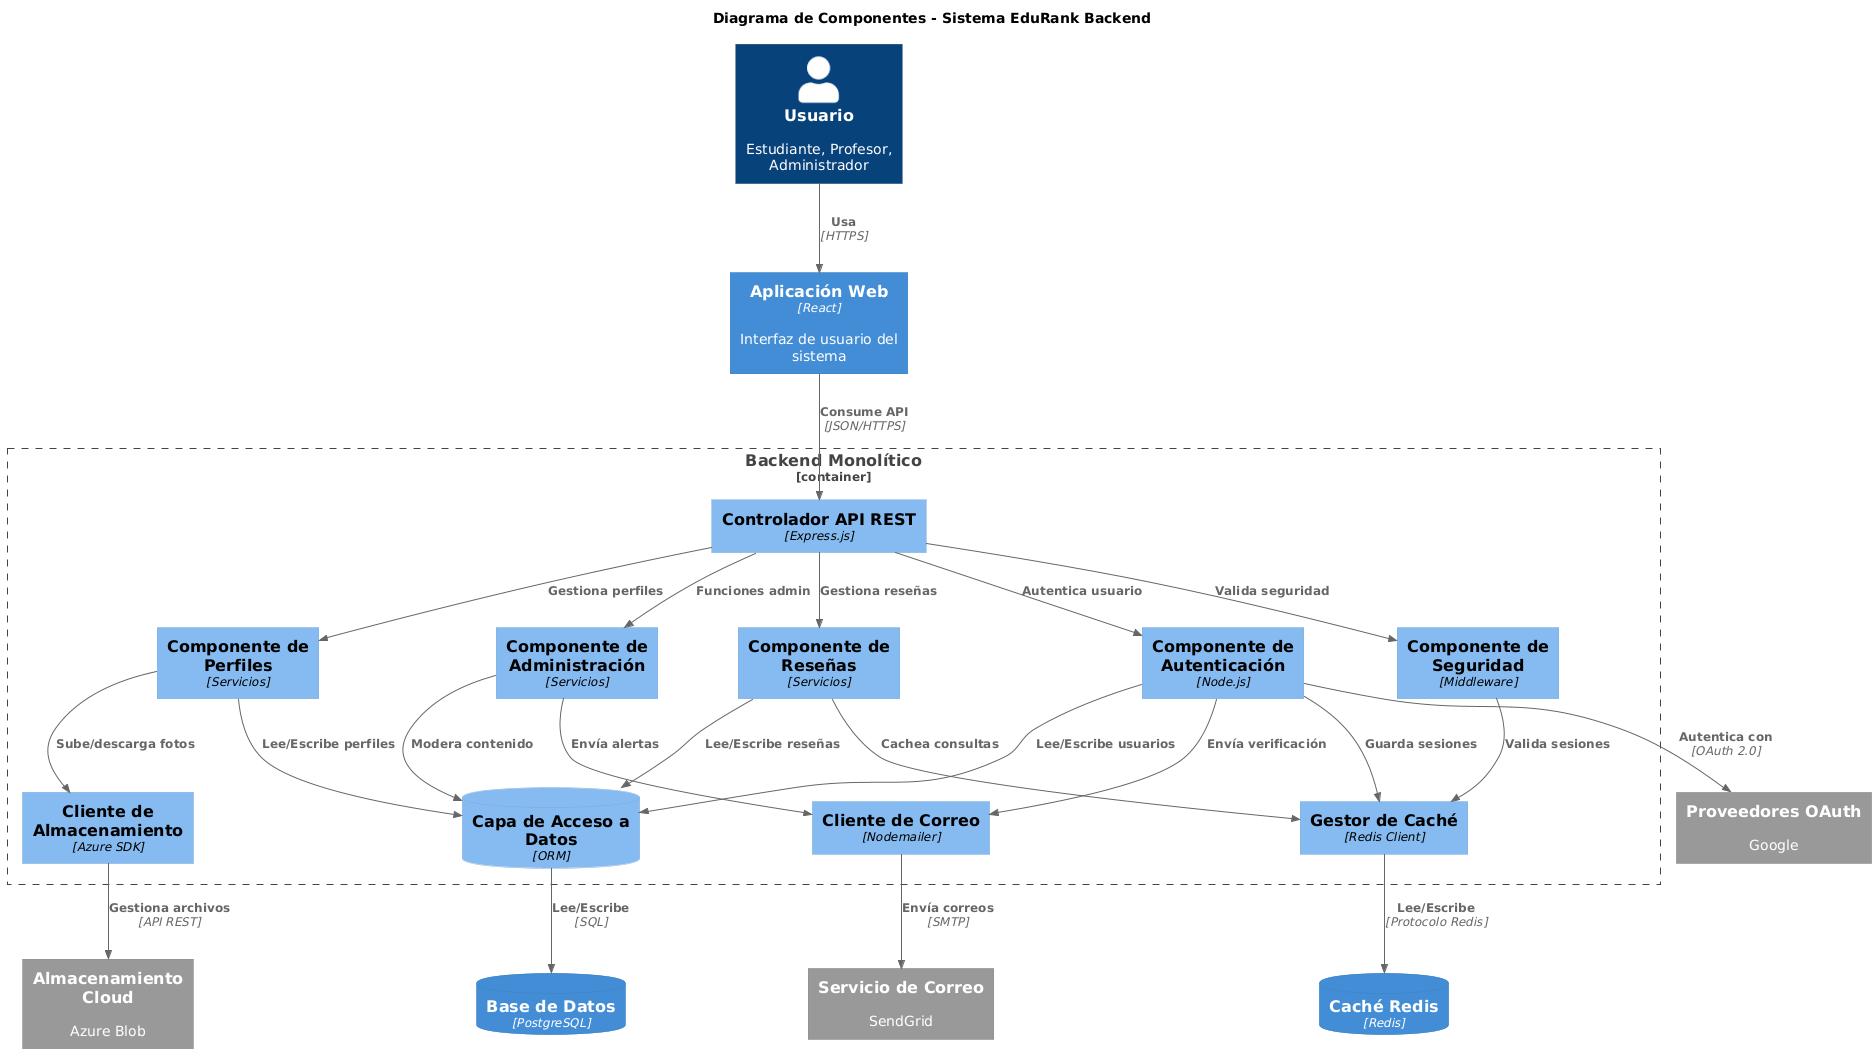
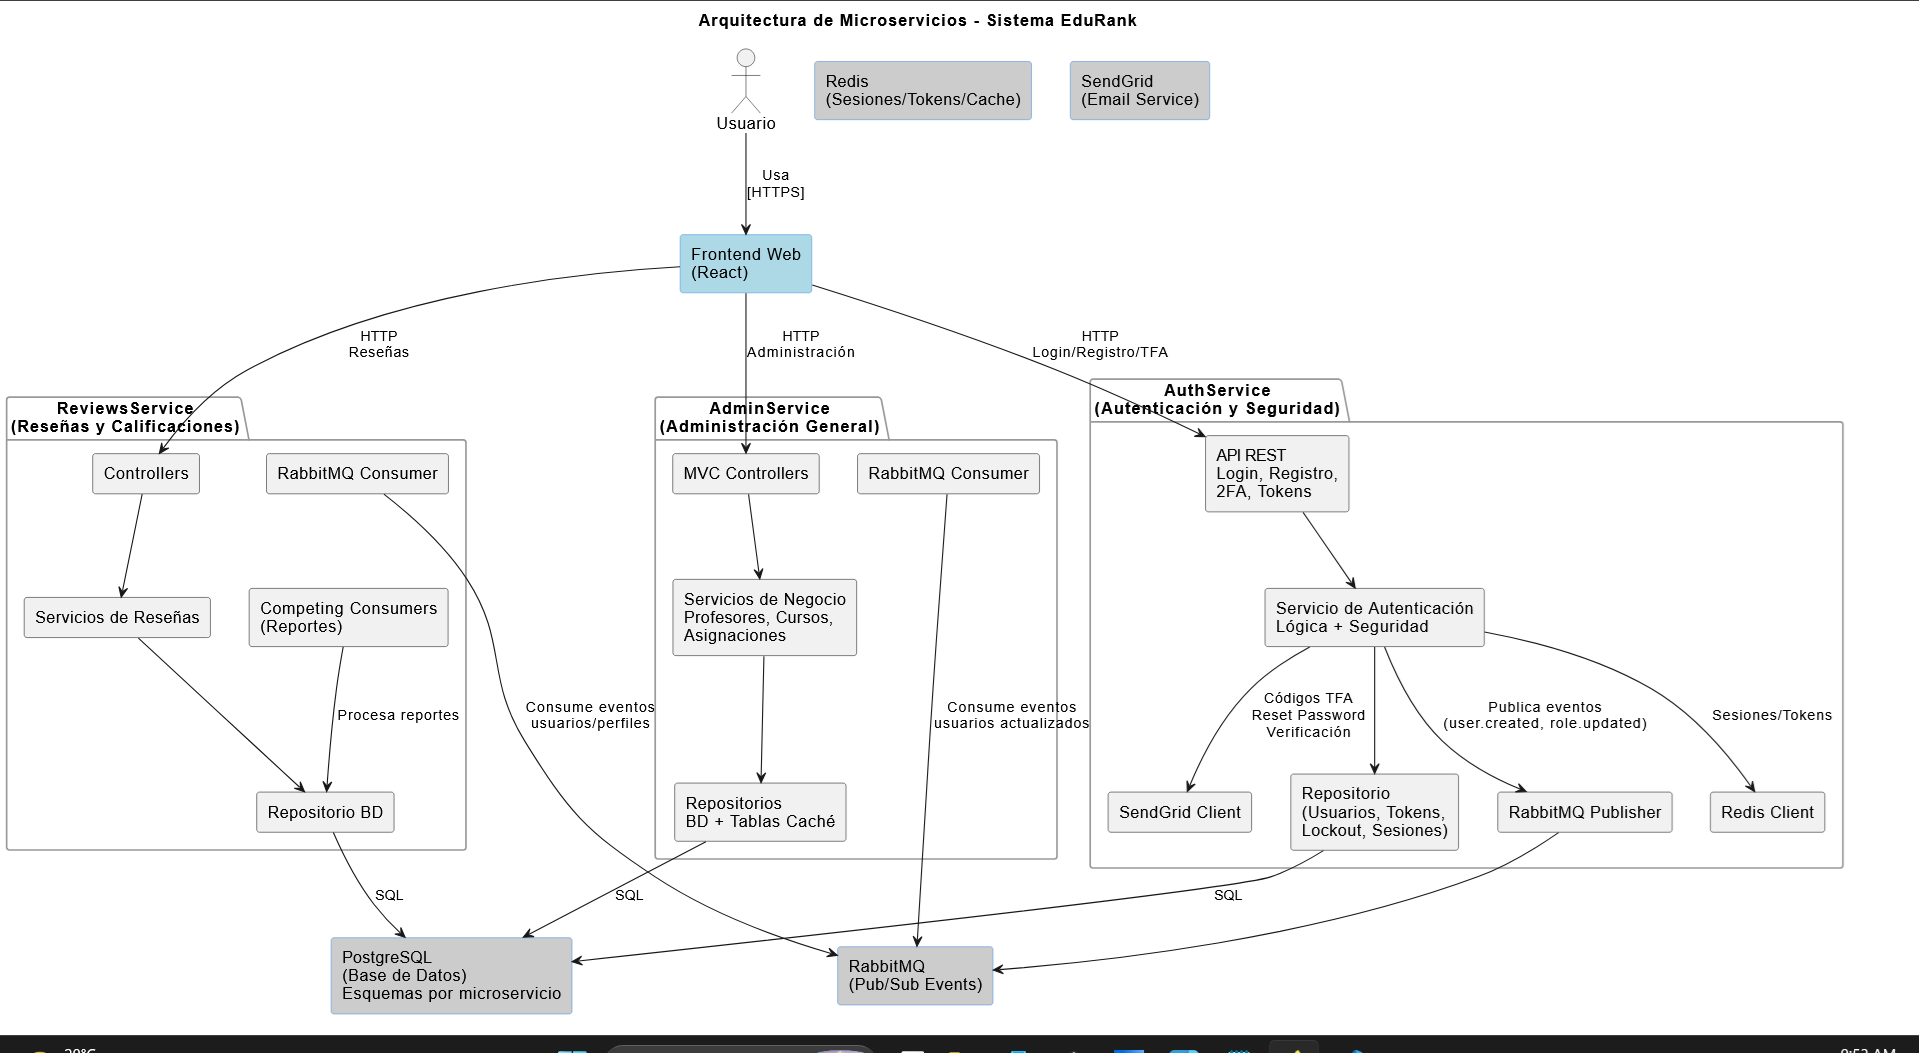
Correciones
diagramas corregidos, actualizacion para no usar el auth de google y parte individual

diff --git a/8/8.3/8.3.md b/8/8.3/8.3.md
@@ -1,9 +1,228 @@
 > [8. Aplicación de Patrones Arquitecturales](../8.md) › [8.3. Módulo 3 / Integrante 3](8.3.md)
 
-# 8.3. Módulo 3 / Integrante 3
+# 8.3. Módulo 3 – Autenticación y Seguridad
 
-Sample content for section 8.3.
+El Módulo de Autenticación y Seguridad es responsable de garantizar la identidad de los usuarios, controlar el acceso a recursos protegidos, gestionar credenciales sensibles y preservar la integridad de las sesiones en toda la plataforma  
+Este módulo centraliza los procesos de login, registro, verificación de correo, autenticación multifactor, recuperación de cuenta, administración de roles y validación de tokens, integrándose con el resto de la arquitectura a través de servicios REST y eventos asincrónicos
+
+Dado que cualquier vulnerabilidad en este módulo compromete la plataforma completa, su arquitectura incorpora patrones de seguridad, escalabilidad y resiliencia orientados a reducir riesgos sin sacrificar rendimiento ni experiencia de usuario⚠ *experincia*
 
 ---
+
+## Patrones de Módulo
+
+## **ADR 1: Arquitectura en Capas (Layered Architecture)**
+
+### **Contexto**
+El módulo incluye operaciones altamente críticas: hashing de contraseñas, validación de tokens, verificación de identidad, configuración de métodos 2FA, detección de actividades sospechosas y control rígido de roles y propietarios  
+Implementar estas responsabilidades directamente en rutas o en acceso a datos produciría código difícil de mantener, propenso a errores y con alta fragilidad ante cambios⚠ *fragildad*
+
+### **Decisión**
+Se adopta una arquitectura en capas con separación estricta
+
+- **Capa de Presentación (Routes/Controllers):** valida entrada, define contratos y orquesta procesos
+- **Capa de Servicios:** agrupa lógica de autenticación, seguridad, sesiones, 2FA, verificación y administración
+- **Capa de Repositorios:** acceso abstracto a PostgreSQL y Redis (usuarios, tokens, bloqueo, notificaciones)
+- **Capa de Infraestructura:** integra herramientas externas (SendGrid, JWT, Redis, brokers de mensajes, métricas)
+
+### **Consecuencias**
+- Aumenta mantenibilidad y facilidad de pruebas
+- Permite agregar nuevas políticas (ej nuevos métodos 2FA) sin modificar rutas
+- Reduce el riesgo de introducir vulnerabilidades por duplicación de lógica
+- Facilita auditoría y trazabilidad de decisiones de seguridad
+
+---
+
+## Patrones de Componentes y Conectores
+
+## **ADR 2: Cliente–Servidor mediante API REST**
+
+### **Contexto**
+Los clientes del sistema (frontends administrativos, frontends estudiantiles y microservicios internos) requieren una interfaz bien definida para autenticarse, solicitar tokens, realizar verificaciones y ejecutar flujos críticos de seguridad en tiempo real
+
+### **Decisión**
+El módulo expone una **API REST** que cubre todas las funciones del servicio
+
+- `/auth/login`, `/auth/login/2fa`
+- `/auth/refresh`
+- `/auth/register`, `/auth/verify-email`
+- `/auth/forgot-password`, `/auth/reset-password`
+- `/auth/logout`, `/auth/logout-all`
+- `/auth/2fa/...`
+- `/users/...` (solo administradores)
+
+### **Consecuencias**
+- Interoperabilidad con cualquier cliente web o móvil
+- Aislamiento total del módulo respecto de sus consumidores
+- Baja latencia en operaciones críticas
+- Contratos estables que facilitan futuras extensiones
+
+---
+
+## **ADR 3: Publish–Subscribe con RabbitMQ**
+
+### **Contexto**
+Cambios en autenticación como creación de usuarios, verificación de correos, cambios de rol o alertas de seguridad deben ser notificados de inmediato a otros microservicios  
+Consultas directas generarían acoplamiento y podrían desestabilizar la plataforma bajo carga
+
+### **Decisión**
+El módulo publica eventos mediante **RabbitMQ**, tales como
+
+- `user.created`
+- `user.updated`
+- `user.deleted`
+- `role.updated`
+- `security.event`
+- `account.state.updated`
+
+### **Consecuencias**
+- Los demás servicios se mantienen sincronizados sin depender de la base de datos del módulo
+- Se evita acoplamiento directo entre dominios
+- Permite auditar, cachear o replicar información en otros servicios sin afectar al AuthService
+- Mejora la escalabilidad general del sistema
+
+---
+
+## **ADR 4: Arquitectura Orientada a Servicios (SOA)**
+
+### **Contexto**
+La responsabilidad del módulo no puede mezclarse con otros dominios como calificaciones o perfiles  
+El sistema requiere exponer funcionalidades de seguridad mediante interfaces estables e independientes
+
+### **Decisión**
+El AuthService opera como un servicio autónomo con un conjunto claro de capacidades
+
+- Gestión de identidad  
+- Gestión de tokens  
+- Gestión de roles y estados  
+- Seguridad multifactor  
+- Notificaciones de seguridad  
+- Revocación global de sesiones  
+- Sincronización de datos vía eventos  
+
+### **Consecuencias**
+- Permite que los demás módulos consuman funcionalidades sin riesgo de acoplamiento
+- Facilita la evolución del sistema hacia microservicios más especializados
+- Protege las responsabilidades de seguridad frente a cambios no controlados⚠ *incontrolados*
+
+---
+
+## Patrones Cloud
+
+## **ADR 5: Rate-Limiting Distribuido y Escalado Horizontal**
+
+### **Contexto**
+El inicio de sesión y la verificación 2FA pueden experimentar picos de solicitudes  
+Sin control, esto afectaría tiempos de respuesta y habilitaría ataques de fuerza bruta o denegación de servicio
+
+### **Decisión**
+Se implementa
+
+- **Rate-limit por IP y por usuario** para el login  
+- Soporte para **escalado horizontal**, utilizando Redis y JWT para mantener la aplicación sin estado  
+- **Bloqueo temporal automático** ante múltiples intentos fallidos
+
+### **Consecuencias**
+- El sistema mantiene tiempos de respuesta predecibles
+- El módulo puede escalar sin restricciones al aumentar la demanda
+- Los intentos maliciosos no afectan a usuarios legítimos
+
+---
+
+## **ADR 6: Circuit Breaker + Backoff para Envío de Correos/OTP**
+
+### **Contexto**
+El proveedor de correo es crítico en flujos como registro, verificación, login 2FA y recuperación de cuenta  
+Las fallas del proveedor no deben detener la operación del sistema
+
+### **Decisión**
+El módulo integra
+
+- **Reintentos automáticos**  
+- **Backoff exponencial**  
+- **Circuit breaker** de 1 minuto  
+- Un error especializado `EmailProviderUnavailableError`  
+- Mensajes amigables para el usuario  
+- Rutas alternas como TOTP y códigos de respaldo
+
+### **Consecuencias**
+- Los flujos de autenticación se degradan suavemente ante fallos externos
+- El sistema sigue operativo incluso ante caídas del proveedor de correo
+- Mejora la disponibilidad general del módulo
+
+---
+
+## **ADR 7: Detección de Sesión Secuestrada y Revocación Global**
+
+### **Contexto**
+Los refresh tokens pueden ser robados mediante XSS, malware o redes públicas  
+Aceptar un refresh sin validaciones adicionales permitiría que un atacante mantenga sesión activa indefinidamente
+
+### **Decisión**
+Cada refresh token almacena
+
+- IP  
+- User-Agent  
+- Expiración  
+- Estado (revocado o no)
+
+Y la ruta `/auth/refresh`
+
+- Compara IP y User-Agent originales con los actuales  
+- Ante discrepancias:
+  - revoca todos los tokens activos  
+  - registra un evento de seguridad  
+  - solicita un nuevo inicio de sesión  
+
+### **Consecuencias**
+- Detiene secuestros de sesión en tiempo real
+- Minimiza el daño en caso de filtración de tokens
+- Fortalece la integridad del sistema
+
+---
+
+## **ADR 8: Control de Acceso Basado en Roles (RBAC) mediante Middlewares**
+
+### **Contexto**
+Las rutas de usuario incluyen operaciones críticas como modificar estado de cuenta o aprobar nuevos administradores  
+Deben protegerse mediante autorización además de autenticación
+
+### **Decisión**
+Se implementan middlewares
+
+- `requireRole("admin")`  
+- `requireOwnerOrRole("admin")`
+
+### **Consecuencias**
+- Garantiza que solo administradores realicen acciones sensibles
+- Evita uso inapropiado de rutas por usuarios autenticados
+- Autoriza de forma centralizada y uniforme
+
+---
+
+## Resumen de Patrones Aplicados
+
+| Categoría | Patrón | Rol en el módulo |
+|----------|--------|------------------|
+| **Módulo** | Arquitectura en capas | Estructura uniforme y mantenible |
+| **Conectores** | API REST | Interfaz clara entre clientes y microservicios |
+| **Conectores** | Publish–Subscribe | Sincronización sin acoplamiento |
+| **SOA** | Servicio autónomo | Aislamiento del dominio de seguridad |
+| **Cloud** | Rate-limit + escalado horizontal | Manejo de carga y resiliencia |
+| **Cloud** | Circuit breaker + backoff | Tolerancia a fallos |
+| **Seguridad** | RBAC | Autorización estricta |
+| **Seguridad** | Refresh seguro | Integridad de sesión |
+| **Seguridad** | Notificaciones de seguridad | Auditoría y alertas |
+| **Seguridad** | 2FA | Protección multifactor |
+
+---
+
+# Conclusión
+
+El Módulo de Autenticación y Seguridad aplica un conjunto de patrones arquitectónicos que equilibran robustez, escalabilidad, resiliencia y experiencia de usuario  
+Gracias a la separación por capas, uso de eventos, control de acceso centralizado, mecanismos avanzados de detección de anomalías y tolerancia a fallos externos, el módulo garantiza la seguridad integral de la plataforma sin comprometer su desempeño
+
+
+
 
 [⬅ Anterior](../8.2/8.2.md) | [🏠 Home](../../README.md) | [Siguiente ➡](../8.4/8.4.md)

diff --git a/7/7.1/7.1.md b/7/7.1/7.1.md
@@ -5,13 +5,12 @@
 
 
 
-| **Aplicación**                       | **Contenedor C4**    | **Tecnología FE**             | **Tecnología BE**                            | **Base de Datos**     | **Repositorio / Carpeta** |
-| ------------------------------------ | -------------------- | ----------------------------- | -------------------------------------------- | --------------------- | ------------------------- |
-| **App Web EduRank**                  | Aplicación Web SPA   | React (Vite, Node.js Runtime) | Express (Node.js) + Sequelize ORM            | PostgreSQL            | -                         |
-| **API de Autenticación y Seguridad** | Proveedores OAuth    | —                             | Express + Passport.js (OAuth 2.0 con Google) | PostgreSQL (usuarios) | -                         |
-| **API de Correo Electrónico**        | Servicio de Correo   | —                             | SendGrid API (Node.js SDK)                   | —                     | -                         |
-| **API de Almacenamiento Multimedia** | Almacenamiento Cloud | —                             | Azure Blob Storage SDK (Node.js)             | Azure Blob Containers | -                         |
-
+| **Aplicación**                       | **Contenedor C4**        | **Tecnología FE**             | **Tecnología BE**                                 | **Base de Datos**               | **Repositorio / Carpeta** |
+| ------------------------------------ | ------------------------- | ----------------------------- | -------------------------------------------------- | ------------------------------- | ------------------------- |
+| **App Web EduRank**                  | Aplicación Web SPA       | React (Vite, Node.js Runtime) | Express (Node.js)                                  | PostgreSQL                      | -                         |
+| **API de Autenticación y Seguridad** | Servicio de Identidad    | —                             | Node.js (Express) + JWT + 2FA (Email/TOTP)         | PostgreSQL (usuarios, tokens)   | ModuloAuth / src          |
+| **API de Correo Electrónico**        | Servicio de Correo       | —                             | SendGrid API (Node.js SDK) + Circuit Breaker       | —                               | ModuloAuth / infra/email  |
+| **API de Almacenamiento Multimedia** | Almacenamiento Cloud     | —                             | Azure Blob Storage SDK (Node.js)                   | Azure Blob Containers           | -                         |
 
 ---
 

diff --git a/7/7.2/7.2.md b/7/7.2/7.2.md
@@ -2,14 +2,11 @@
 
 # 7.2. Mapeo Aplicaciones vs Módulos
 
+| **Aplicación**                                | **Administración General** | **Autenticación y Seguridad**                    | **Reseñas y Calificaciones** | **Gestión de Perfiles**         |
+| --------------------------------------------- | -------------------------- | ------------------------------------------------ | ---------------------------- | ------------------------------- |
+| **Servicio de Correo (SendGrid)**             |                            | ✔ (2FA por correo, verificación, recuperación)   |                              | ✔ (notificaciones de cambios)   |
+| **Proveedor de 2FA (Códigos OTP / TOTP)**     |                            | ✔ (OTP por correo + TOTP basado en secreto)      |                              |                                 |
+| **Almacenamiento Cloud (Azure Blob Storage)** |                            |                                                  |                              | ✔ (fotos y archivos multimedia) |
 
-| **Aplicación**                                | **Administración General** | **Autenticación y Seguridad**   | **Reseñas y Calificaciones** | **Gestión de Perfiles**         |
-| --------------------------------------------- | -------------------------- | ------------------------------- | ---------------------------- | ------------------------------- |
-| **Servicio de Correo (SendGrid)**             |                            | ✔ (verificación y recuperación) |                              | ✔ (notificaciones de cambios)   |
-| **Proveedores OAuth (Google OAuth)**          |                            | ✔                               |                              |                                 |
-| **Almacenamiento Cloud (Azure Blob Storage)** |                            |                                 |                              | ✔ (fotos y archivos multimedia) |
-
-
----
 
 [⬅ Anterior](../7.1/7.1.md) | [🏠 Home](../../README.md)
